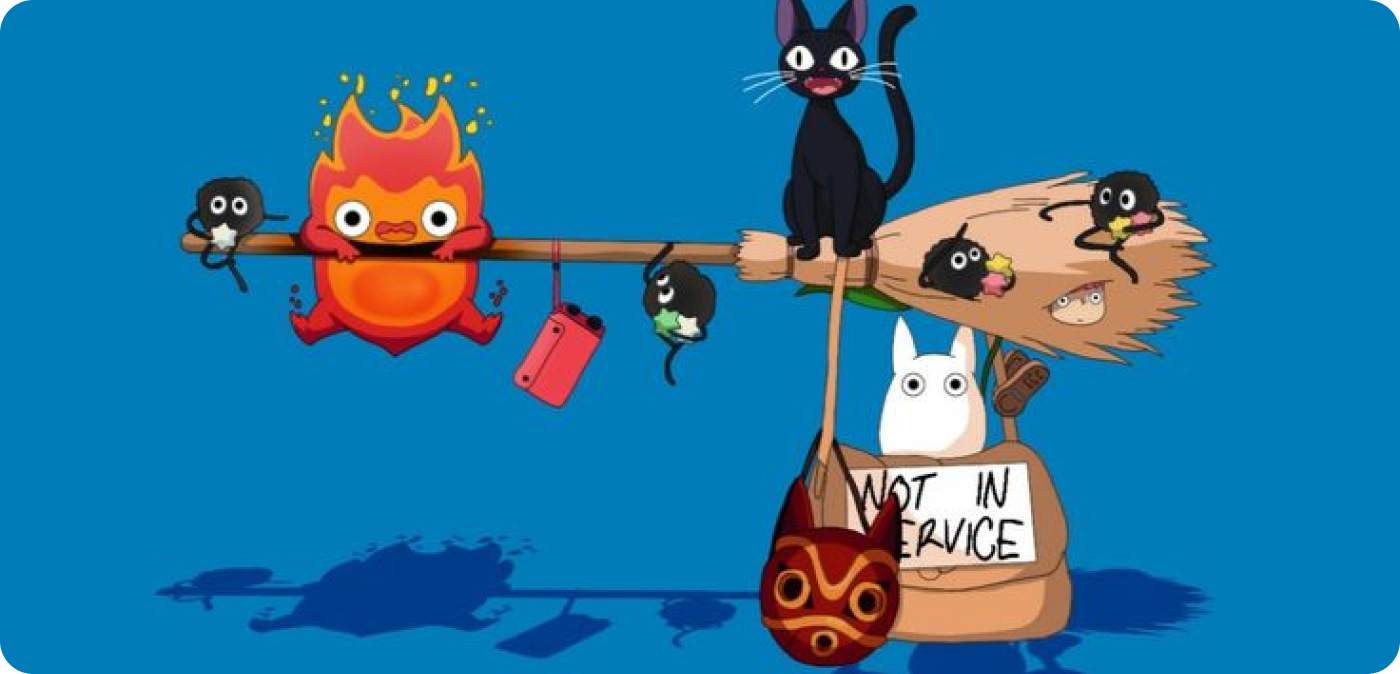
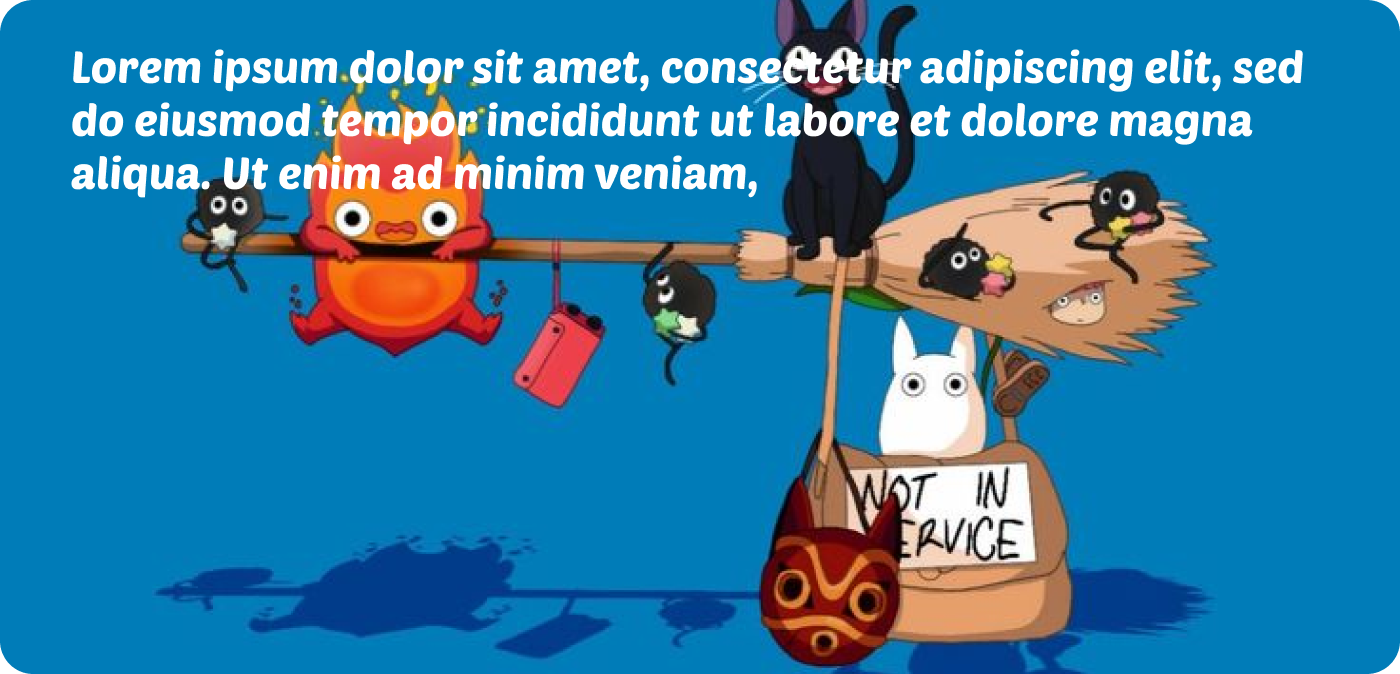
update

Changed region(s): [[0.0307, 0.1558, 0.8907, 0.2804], [0.0307, 0.0623, 0.9521, 0.1246]]

diff --git a/css/style.css b/css/style.css
@@ -1,4 +1,4 @@
-#homeBlok {
+#main {
     padding: 155px 0;
 }
 
@@ -11,13 +11,6 @@
     border-radius: 33px;
 }
 
-#list {
-    font-size: 44px;
-    width: 1258px;
-    color: #fff;
-    margin-top: -680px;
-    padding: 39px 71px;
-}
 
 #contactblok {
     width: 1137px;
@@ -25,7 +18,7 @@
     margin: 0 auto;
     border-radius: 24px;
     background-color: #EBF8FE;
-    margin-top: 590px;
+    margin-top: 115px;
 }
 
 #contact {
@@ -39,7 +32,6 @@
     line-height: 44px;
 }
 
-#form {}
 
 #formBlok {
     width: 488px;

diff --git a/index.html b/index.html
@@ -10,12 +10,9 @@
 </head>
 
 <body>
-    <main id="homeBlok">
+    <main id="main">
         <div id="containerblok">
             <img src="images/image.png" alt="images/image.png" id="image">
-            <p id="list">Lorem ipsum dolor sit amet, consectetur adipiscing elit, sed do eiusmod tempor incididunt ut
-                labore et
-                dolore magna aliqua. Ut enim ad minim veniam,</p>
         </div>
         <div id="contactblok">
             <h1 id="contact">Be the first to know when we launch</h1>
